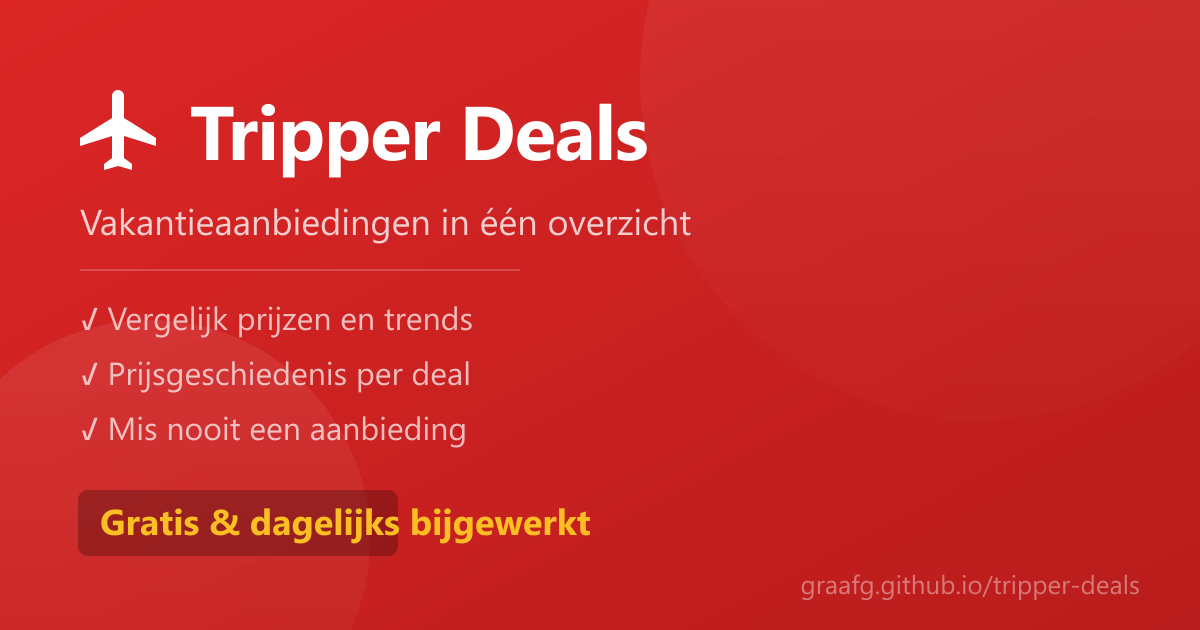
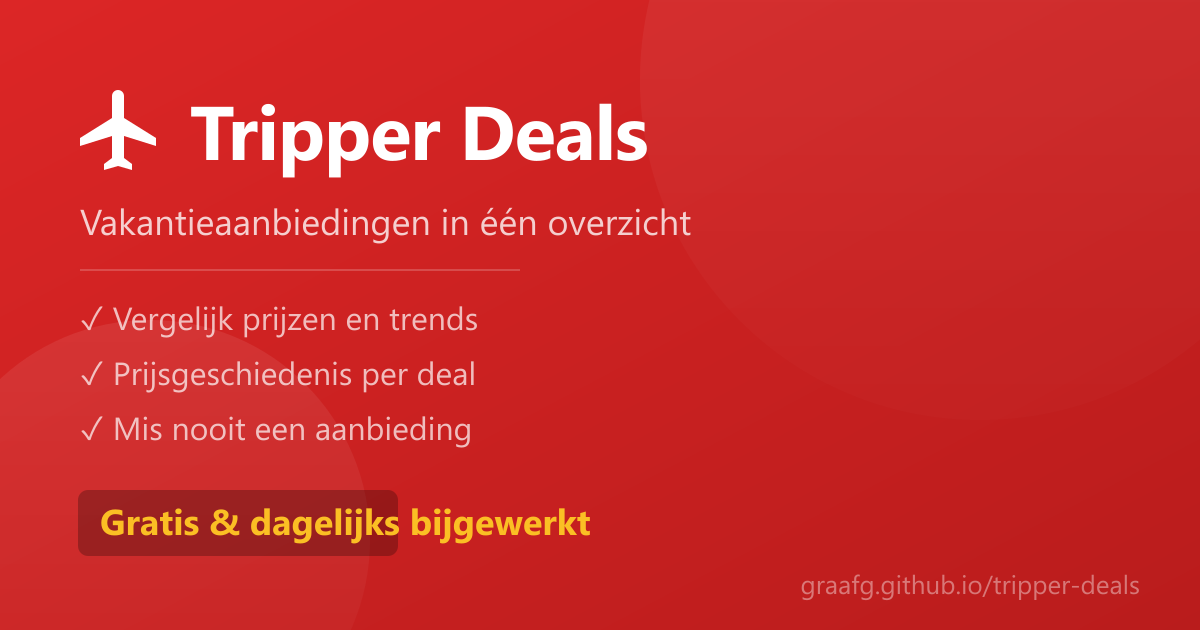
Add recent drops section with styling and functionality

Changed region(s): [[0.0617, 0.573, 0.4008, 0.6333], [0.0617, 0.4825, 0.4008, 0.5429], [0.0617, 0.6635, 0.4008, 0.7238]]

diff --git a/src/styles/global.css b/src/styles/global.css
@@ -152,6 +152,95 @@ a:hover { color: var(--primary-700); text-decoration: underline; }
 .stat-value { font-size: 1.25rem; font-weight: 700; color: var(--gray-900); }
 .stat-value.accent { color: var(--primary-600); }
 
+/* ---- Recent drops ---- */
+.recent-drops-section {
+  padding-bottom: 1.25rem;
+}
+.section-heading {
+  display: flex;
+  justify-content: space-between;
+  align-items: end;
+  gap: 1rem;
+  margin-bottom: 0.75rem;
+}
+.section-heading h2 {
+  font-size: 1rem;
+  line-height: 1.25;
+  color: var(--gray-900);
+}
+.section-heading p {
+  margin-top: 0.2rem;
+  color: var(--gray-500);
+  font-size: 0.85rem;
+}
+.recent-drops-grid {
+  display: grid;
+  grid-template-columns: repeat(auto-fit, minmax(240px, 1fr));
+  gap: 0.75rem;
+}
+.drop-card {
+  background: #fff;
+  border: 1px solid var(--gray-200);
+  border-radius: var(--radius);
+  padding: 0.8rem 0.9rem;
+  box-shadow: var(--shadow-sm);
+  display: grid;
+  grid-template-columns: minmax(0, 1fr) auto;
+  gap: 0.7rem;
+}
+.drop-card-main { min-width: 0; }
+.drop-card-title {
+  display: block;
+  color: var(--gray-900);
+  font-size: 0.9rem;
+  font-weight: 650;
+  line-height: 1.3;
+  overflow-wrap: anywhere;
+}
+.drop-card-title:hover { color: var(--primary-700); }
+.drop-card-meta {
+  display: block;
+  color: var(--gray-500);
+  font-size: 0.78rem;
+  margin-top: 0.2rem;
+  white-space: nowrap;
+  overflow: hidden;
+  text-overflow: ellipsis;
+}
+.drop-card-price {
+  text-align: right;
+  white-space: nowrap;
+}
+.drop-amount {
+  display: block;
+  color: var(--green-700);
+  font-size: 1rem;
+  font-weight: 800;
+  line-height: 1.15;
+}
+.drop-percent {
+  display: inline-flex;
+  margin-top: 0.25rem;
+  background: var(--green-100);
+  color: var(--green-700);
+  border-radius: 9999px;
+  padding: 0.08rem 0.45rem;
+  font-size: 0.72rem;
+  font-weight: 700;
+}
+.drop-card-footer {
+  grid-column: 1 / -1;
+  display: flex;
+  justify-content: space-between;
+  gap: 0.75rem;
+  color: var(--gray-500);
+  font-size: 0.78rem;
+  border-top: 1px solid var(--gray-100);
+  padding-top: 0.55rem;
+}
+.drop-card-footer strong { color: var(--green-700); }
+.drop-card-footer s { color: var(--gray-400); }
+
 /* ---- View toggle ---- */
 .view-toggle {
   display: inline-flex;